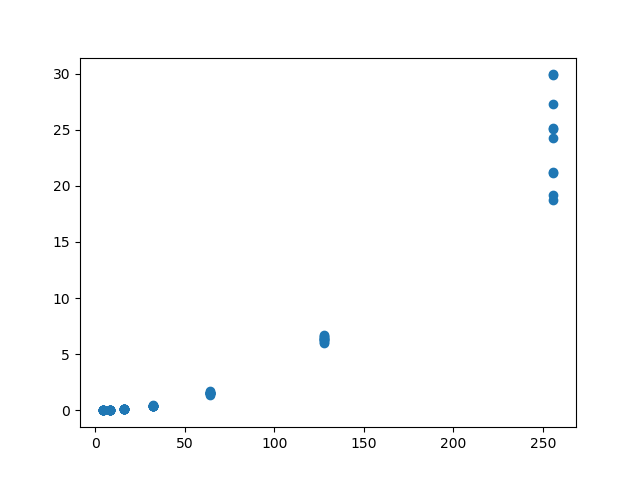
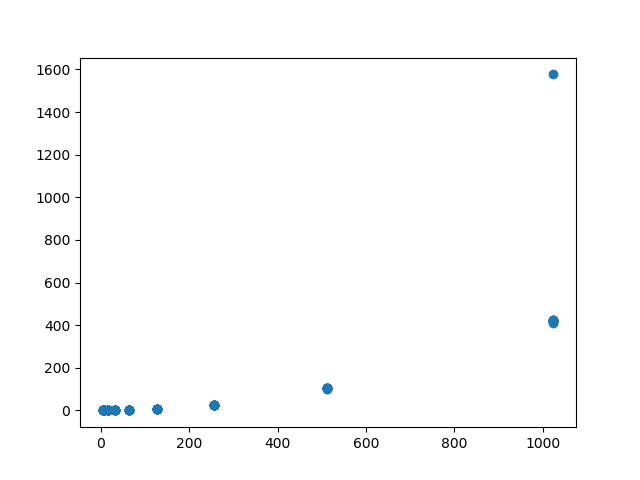
Wrote function to plot execution times of gradient descent

diff --git a/utilities/plot.py b/utilities/plot.py
@@ -1,7 +1,7 @@
 from networkx import spring_layout, draw_networkx_nodes, draw_networkx_edges
 from matplotlib.pyplot import figure, draw, axis, show, cm, colorbar, Normalize, \
     subplot, title, savefig, plot, legend, scatter, xlabel, ylabel
-from numpy import mean, array
+from numpy import mean, array, unique, polyfit, poly1d, linspace
 from utilities.io import save_frequencies
 
 
@@ -105,4 +105,22 @@ def plot_degree_frequency(network, _title='Node Degree vs Degree Frequency', blo
         savefig('../results/degree_frequencies.png')
         save_frequencies(t_frequencies)
 
+    show(block=blocking)
+
+
+def plot_w_best_fit(data, _title='Fitted data', filename='', blocking=False, x_label='', y_label=''):
+    figure(_title)
+    x, y = data[:, 0], data[:, 1]
+    plot(x, y, '.k', label='Execution times')
+
+    domain = linspace(min(x), max(x))
+    plot(domain, poly1d(polyfit(x, y, 2))(domain), label='Line of best fit')
+    legend()
+
+    title(_title)
+    xlabel(x_label)
+    ylabel(y_label)
+
+    if filename != '':
+        savefig(filename)
     show(block=blocking)

diff --git a/utilities/io.py b/utilities/io.py
@@ -4,7 +4,7 @@ from numpy import array
 
 network_path = '../data/network.csv'
 state_path = '../data/state.csv'
-frequency_path = '../data/frequencies.csv'
+frequency_path = '../data/execution_times.csv'
 
 
 def save_network(network, network_file=network_path):
@@ -33,3 +33,15 @@ def save_frequencies(frequencies, filename=frequency_path):
 
         for frequency in frequencies:
             wtr.writerow(frequency)
+
+
+def load_frequencies(filename=frequency_path, cast=True):
+    with open(filename, 'r') as fl:
+        rd = reader(fl)
+        data = []
+
+        for row in rd:
+            tmp_row = array(row).astype(float) if cast else row
+            data.append(tmp_row)
+
+    return array(data)

diff --git a/execute/run_cost_estimation.py b/execute/run_cost_estimation.py
@@ -3,6 +3,7 @@ from matplotlib.pylab import scatter, figure, show, savefig
 from time import time_ns
 from numpy import array
 from multiprocessing import Pool
+from utilities.io import save_frequencies
 
 
 def run_trial(n):
@@ -18,7 +19,7 @@ def run_trial(n):
 
 if __name__ == '__main__':
     num_trials = 10
-    max_n = 500
+    max_n = 1200
     n = 4
     times = []
     proc_pool = Pool(2)
@@ -34,4 +35,5 @@ if __name__ == '__main__':
     figure('Time to run')
     scatter(times[:, 0], times[:,  1])
     savefig('../results/optimization_time.png')
+    save_frequencies(times, filename='../data/execution_times.csv')
     show()

diff --git a/plots/plot_times.py b/plots/plot_times.py
@@ -1,0 +1,7 @@
+from utilities.io import load_frequencies
+from utilities.plot import plot_w_best_fit
+
+times = load_frequencies('../data/execution_times.csv')
+
+plot_w_best_fit(times, blocking=True, filename='../results/benchmark.png',
+                x_label='Network size', y_label='Optimization time')
